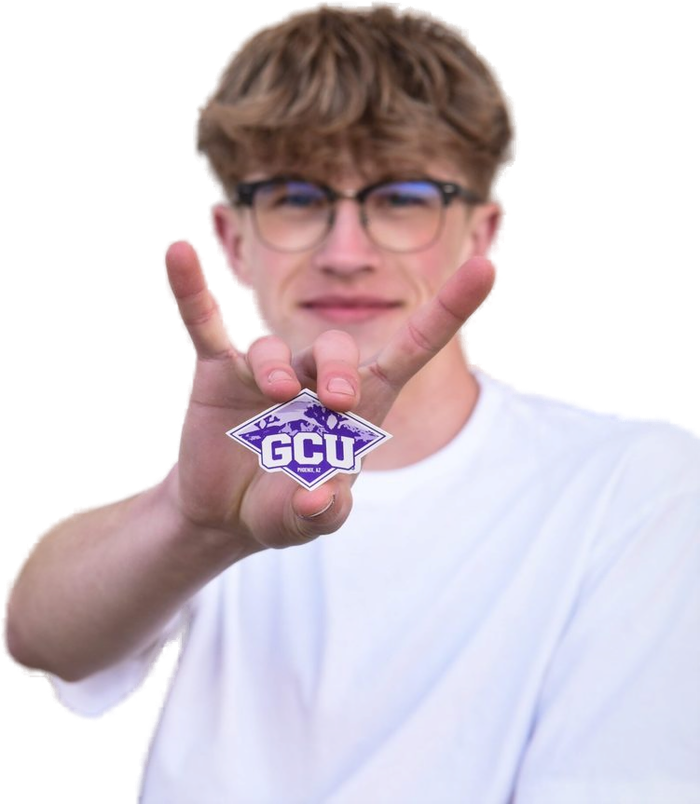
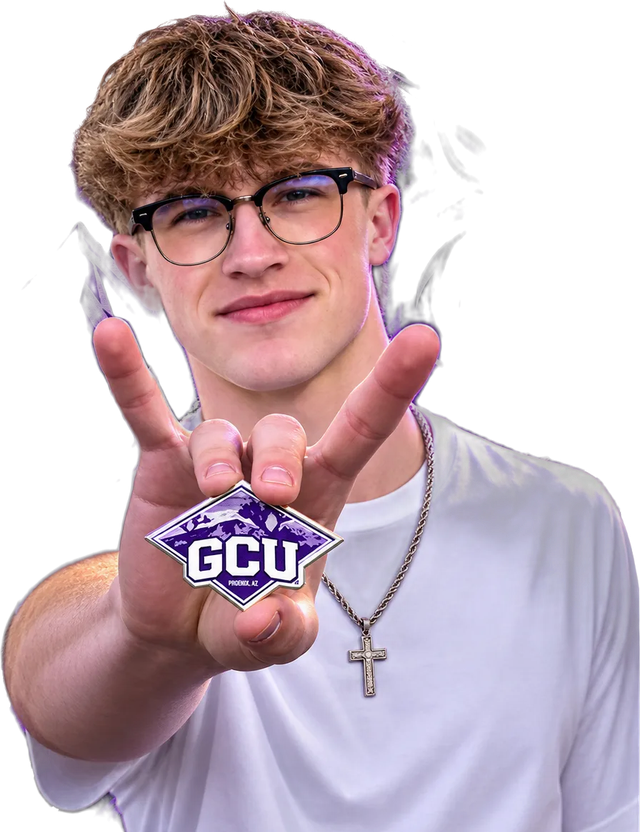
Use the higher-resolution photograph for the hero student
The hero figure came from a 800x904 portrait; this one starts at 1024x1536, so
the face and the GCU pin hold up at hero size instead of softening.

The supplied image is a composed promotional graphic -- the student over a GCU
mascot-and-brushwork backdrop on white. Only the student is used. Three
segmentation models were compared on screen rather than picked on reputation:
u2net_human_seg treated the backdrop as part of the subject and kept all of it,
isnet-general-use left purple fragments floating beside him, and u2netp cut the
person cleanly. Alpha matting was tried on top of u2netp and made it worse, not
better -- it pulled the semi-transparent backdrop back in around the left arm --
so the plain mask is what ships.

The leftover haze from the backdrop sits low in the alpha range while real edge
antialiasing sits high, so the alpha is stretched from that low end to nothing
and the high end to solid, with a ramp between to keep the edges smooth. That
took the semi-transparent pixel count from 276k to 50k.

Weight: 607KB against 404KB before. The image is cropped to 1.3x its width first,
because the panel is square and top-aligned so everything past that is cropped by
CSS and would only cost bytes.

Verified: 84 node / 76 PHP tests, PHP lint clean, cross-build render diff zero on
all ten public pages, and in a browser at 1440 and 390 -- the cutout decodes, the
figure sits centred with equal margins and rises 59px clear of its panel, both
[…]

diff --git a/php/leo-app/views/home.php b/php/leo-app/views/home.php
@@ -27,7 +27,7 @@
         <div class="hero-student-stage">
           <img class="hero-student-cut" src="<?= e(link_url($heroStudent['cutoutUrl'], $basePath)) ?>"
                alt="<?= e($heroStudent['name'] ?? '') ?>, holding up a Grand Canyon University pin"
-               width="700" height="804">
+               width="640" height="832">
         </div>
         <figcaption class="hero-student-note">
           <?php if (!empty($heroStudent['heroQuote'])): ?>
